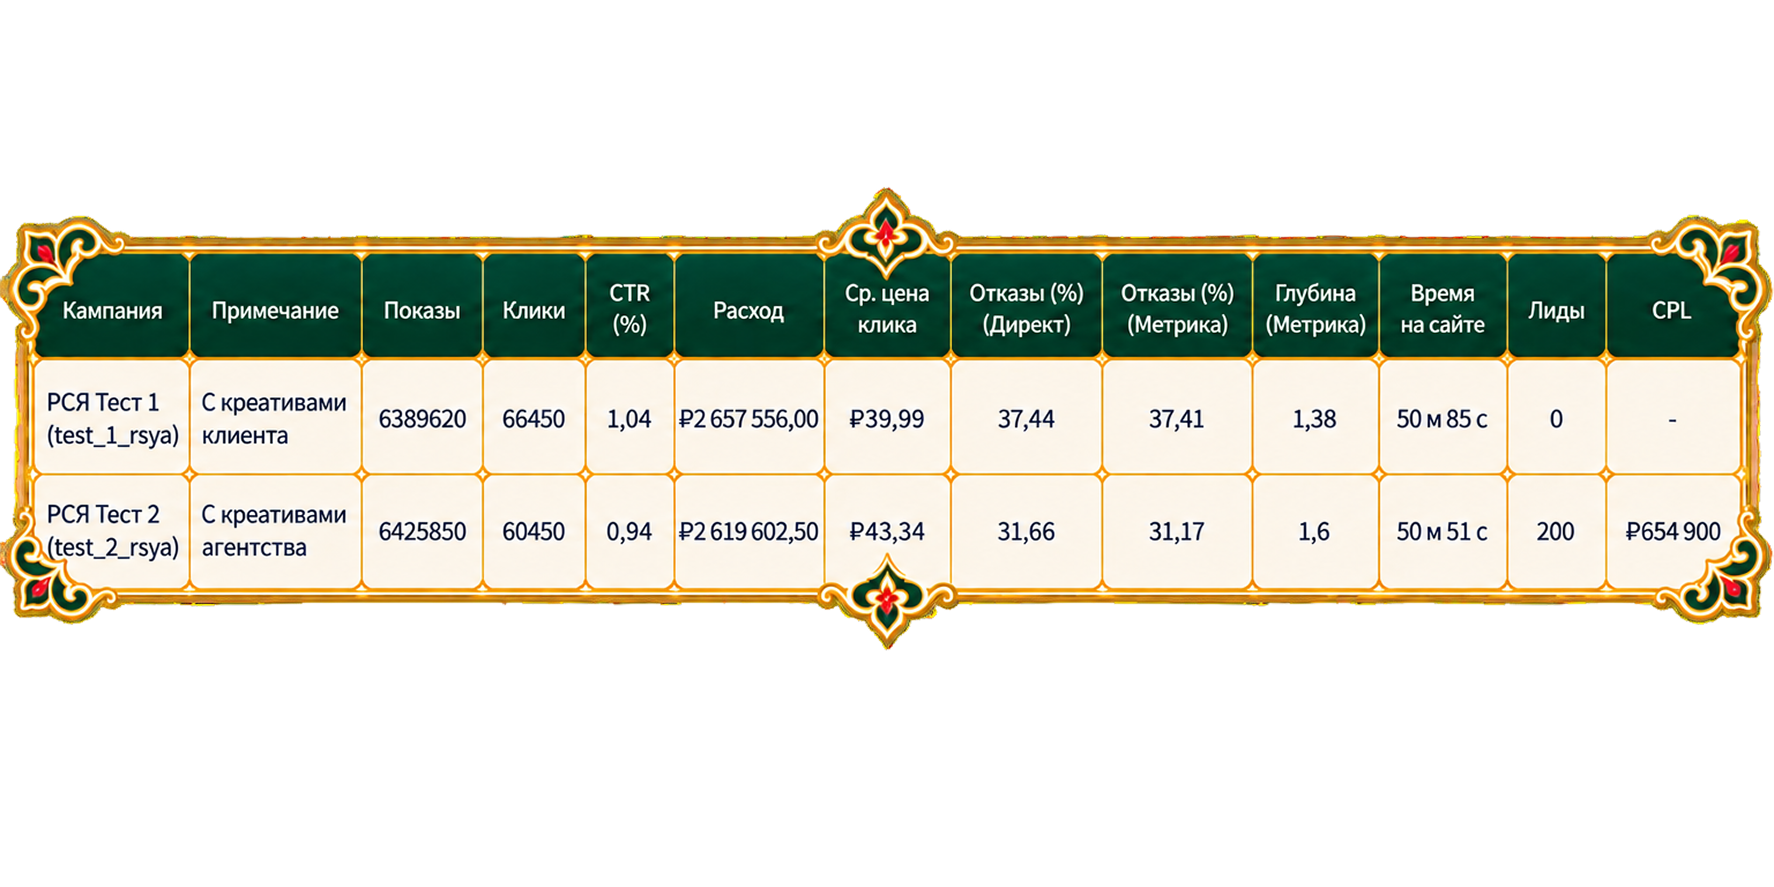
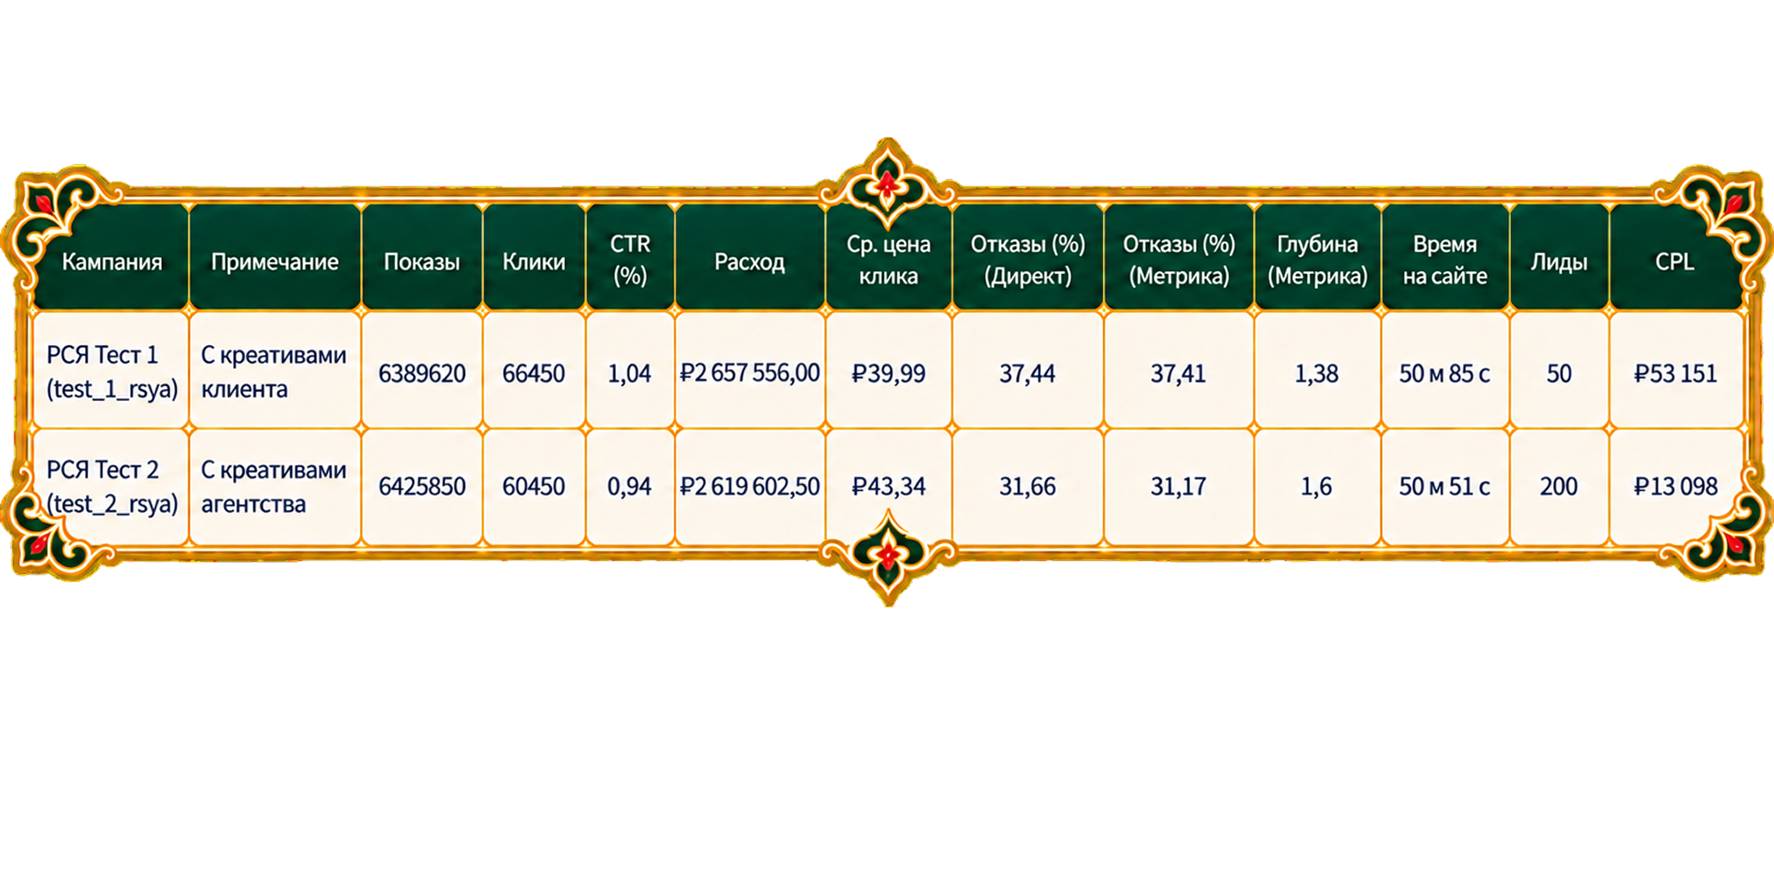
Replace campaign results and visit history tables

Changed region(s): [[0.0, 0.1522, 1.0, 0.7306]]

diff --git a/design.css b/design.css
@@ -496,7 +496,7 @@
 .layer-497{position:absolute;height:406.38%;left:-216.43%;max-width:none;top:-105.51%;width:317.85%}
 .layer-498{position:absolute;height:320px;left:calc(50% - 1px);top:10772px;width:1242px;translate:-50% 0}
 .layer-499{position:absolute;inset:0;overflow:hidden;pointer-events:none}
-.layer-500{position:absolute;height:194.06%;left:0;max-width:none;top:-45.94%;width:100%}
+.layer-500{position:absolute;height:auto;left:1.5%;max-width:none;top:-93px;width:97%}
 .layer-501{position:absolute;height:728px;left:calc(50% - 642px);top:4827px;width:830px;translate:-50% 0}
 .layer-502{position:absolute;inset:0;overflow:hidden;pointer-events:none}
 .layer-503{position:absolute;height:142.84%;left:0;max-width:none;top:1.05%;width:150.99%}
@@ -1170,7 +1170,7 @@
 .layer-1173{line-height:1.5}
 .layer-1174{position:absolute;height:320px;left:calc(100% + 206px);top:9833px;width:1242px;translate:-50% 0}
 .layer-1175{position:absolute;inset:0;overflow:hidden;pointer-events:none}
-.layer-1176{position:absolute;height:194.06%;left:0;max-width:none;top:-45.94%;width:100%}
+.layer-1176{position:absolute;height:auto;left:1.5%;max-width:none;top:-93px;width:97%}
 .layer-1177{position:absolute;display:flex;height:965.023px;align-items:center;justify-content:center;left:-450px;top:9979px;width:1428.996px}
 .layer-1178{scale:1 -1;flex:none;rotate:-154.99deg}
 .layer-1179{height:420.955px;position:relative;width:1380.45px}
